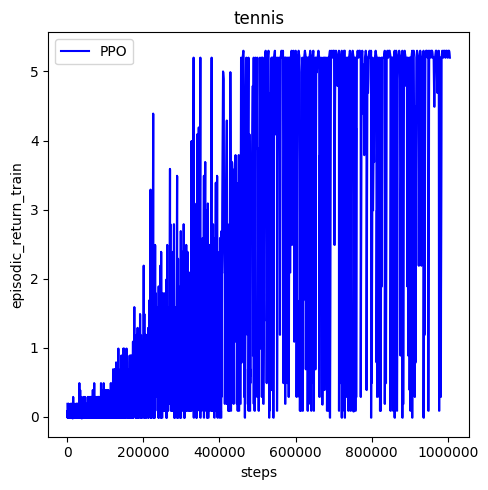
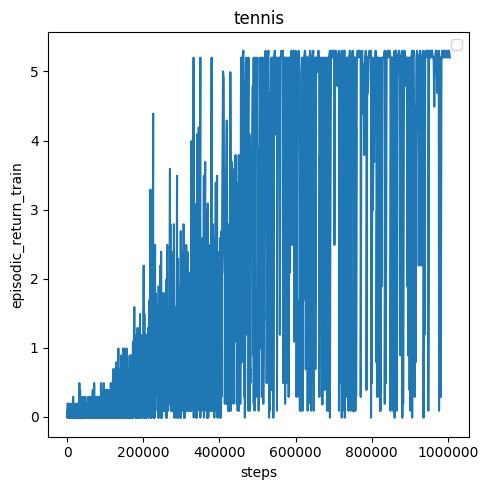
Finish readme and update plots

diff --git a/deep_rl/utils/plot.py b/deep_rl/utils/plot.py
@@ -152,6 +152,8 @@ class Plotter:
                     self.plot_median_std(y, x, label=label, color=color)
                 elif kwargs['agg'] == 'linreg':
                     seaborn.regplot(x, y[0])
+                elif kwargs['agg'] == 'line':
+                    seaborn.lineplot(x, y[0], ci=None)
                 elif kwargs['agg'] == 'scatter':
                     seaborn.scatterplot(x, y[0])
                     seaborn.lineplot([0, 100], y[0].mean().repeat(2))

diff --git a/plot.py b/plot.py
@@ -33,7 +33,7 @@ def plot_ppo():
                        )
 
     plt.tight_layout()
-    # plt.savefig('good_models/PPO-tennis-eval.png', bbox_inches='tight')
+    # plt.savefig('good_models/PPO-tennis-train.png', bbox_inches='tight')
     plt.show(bbox_inches='tight')
 
 

diff --git a/Report.md b/Report.md
@@ -16,20 +16,36 @@ The PPO parameters are as follows:
 * Train for one million steps
 
 ### Training
-Using the above parameters, the agent stably converges close to the optimal reward:
+Using the above parameters, two agents using **the same action and critic network** are trained.
+After 1 million epochs, they are able to perform well in most of the episodes.
+However it's not able to consistently score a high reward. Every now and than they looses an episode rather quickly.
 
-![train image](good_models/PPO-train.png "train image")
+The first plot shows the episodic return of training on 1 million steps, connecting each data point with a line.
+For better interpretability, the second plot fits a linear regression on the same data.
+
+![train image](good_models/PPO-tennis-train.png "train image")
+![train image](good_models/PPO-tennis-train-linreg.png "train image linreg")
 
 
 ### Evaluation
-After training for 1 million iterations, the agent was evaluated on 100 episodes.
-The mean reward is 37.66 with a standard deviation of 0.22.
+After training for 1 million iterations, the agent is evaluated on 100 episodes.
+The mean reward is 3.99 with a standard deviation of 2.07.
 
-![eval image](good_models/PPO-eval.png "eval image]")
+![eval image](good_models/PPO-tennis-eval.png "eval image]")
 
 
-### Further steps:
+### Playing against the agent
+Another way to evaluate performance of the agent is to simply play against it, or to watch it playing against itself.
+Watching the agent playing itself, it can be observed the agent found a kind of local minima: It learned to always
+pass the ball in the same manner, thus making it easy for the other agent (itself!) to catch it.
+
+I confirm this by playing against the agent myself, and finding out it performs bad on fast or low approaching balls.
+To train an even better agent, the reward would need to be altered to train for competetive behavior, as this 
+requires the agent to learn how to handle more hard to catch balls as well.
+
+### Further steps
+- Train competetive behavior (as described above)
 - As PPO comes with a host of different parameters to look at, performance could certainly
 be improved by further fine tuning of parameters.
 - Additionally, there are 3 more algorithms for continuous control implemented within this framework: 
-TD3, DDPG and A2C. One could also try to solve Reacher using those algorithms
+TD3, DDPG and A2C. One could also try out those.
